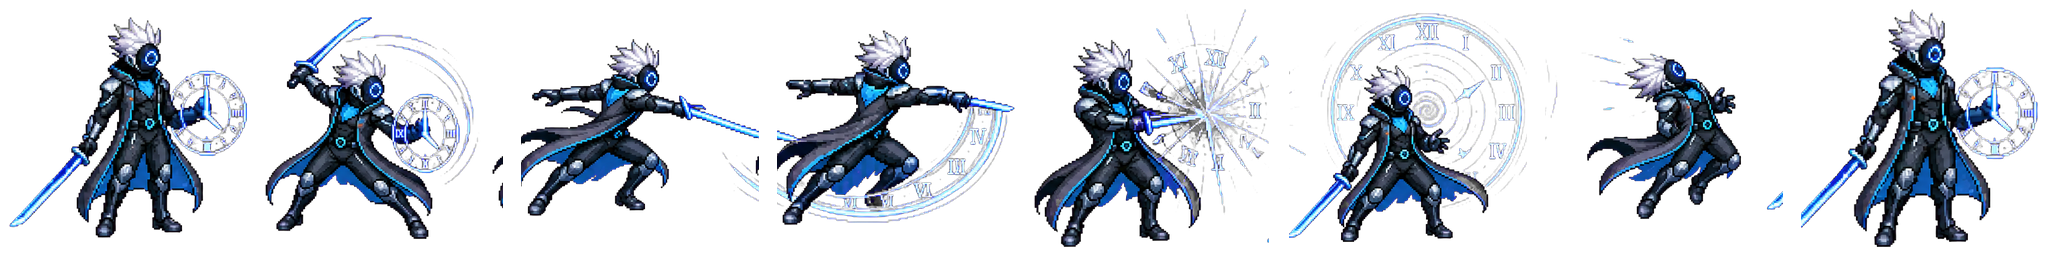
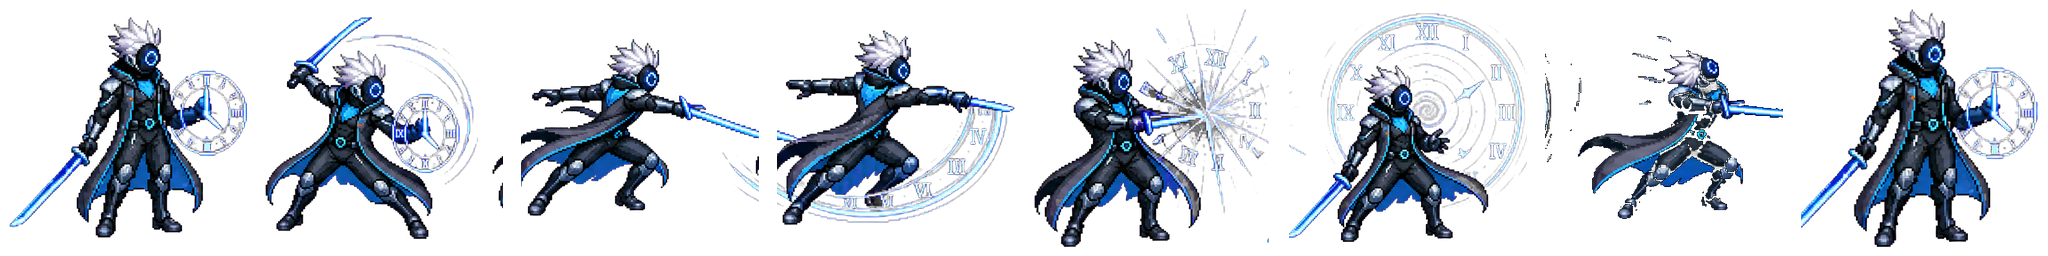
Replace Chrona stagger frame with follow-through

Changed region(s): [[0.75, 0.2188, 0.875, 0.875]]

diff --git a/artifacts/cybergrid-strike-pre-evo/src/components/Game.tsx b/artifacts/cybergrid-strike-pre-evo/src/components/Game.tsx
@@ -3979,7 +3979,7 @@ export default function Game() {
       return;
     }
     const sequence = new Image();
-    sequence.src = `${import.meta.env.BASE_URL}skins/advanced-attack-sequences/${playerSkin}.png?v=1`;
+    sequence.src = `${import.meta.env.BASE_URL}skins/advanced-attack-sequences/${playerSkin}.png?v=2`;
     rivalAttackSequenceRef.current = sequence;
     return () => {
       if (rivalAttackSequenceRef.current === sequence) {
